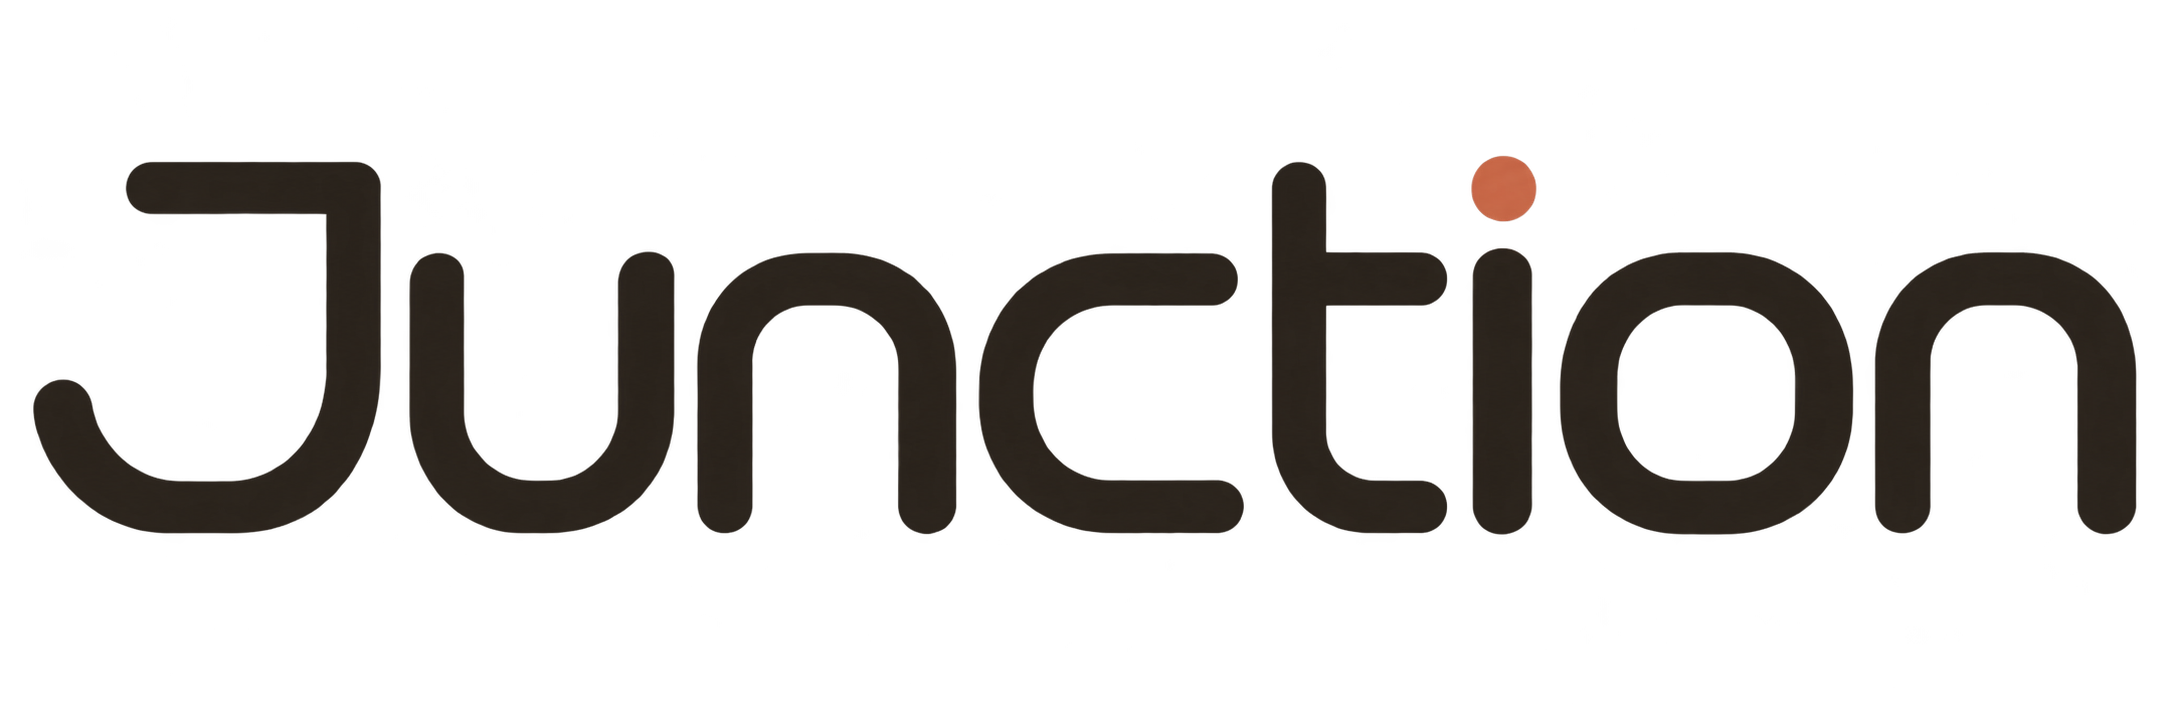
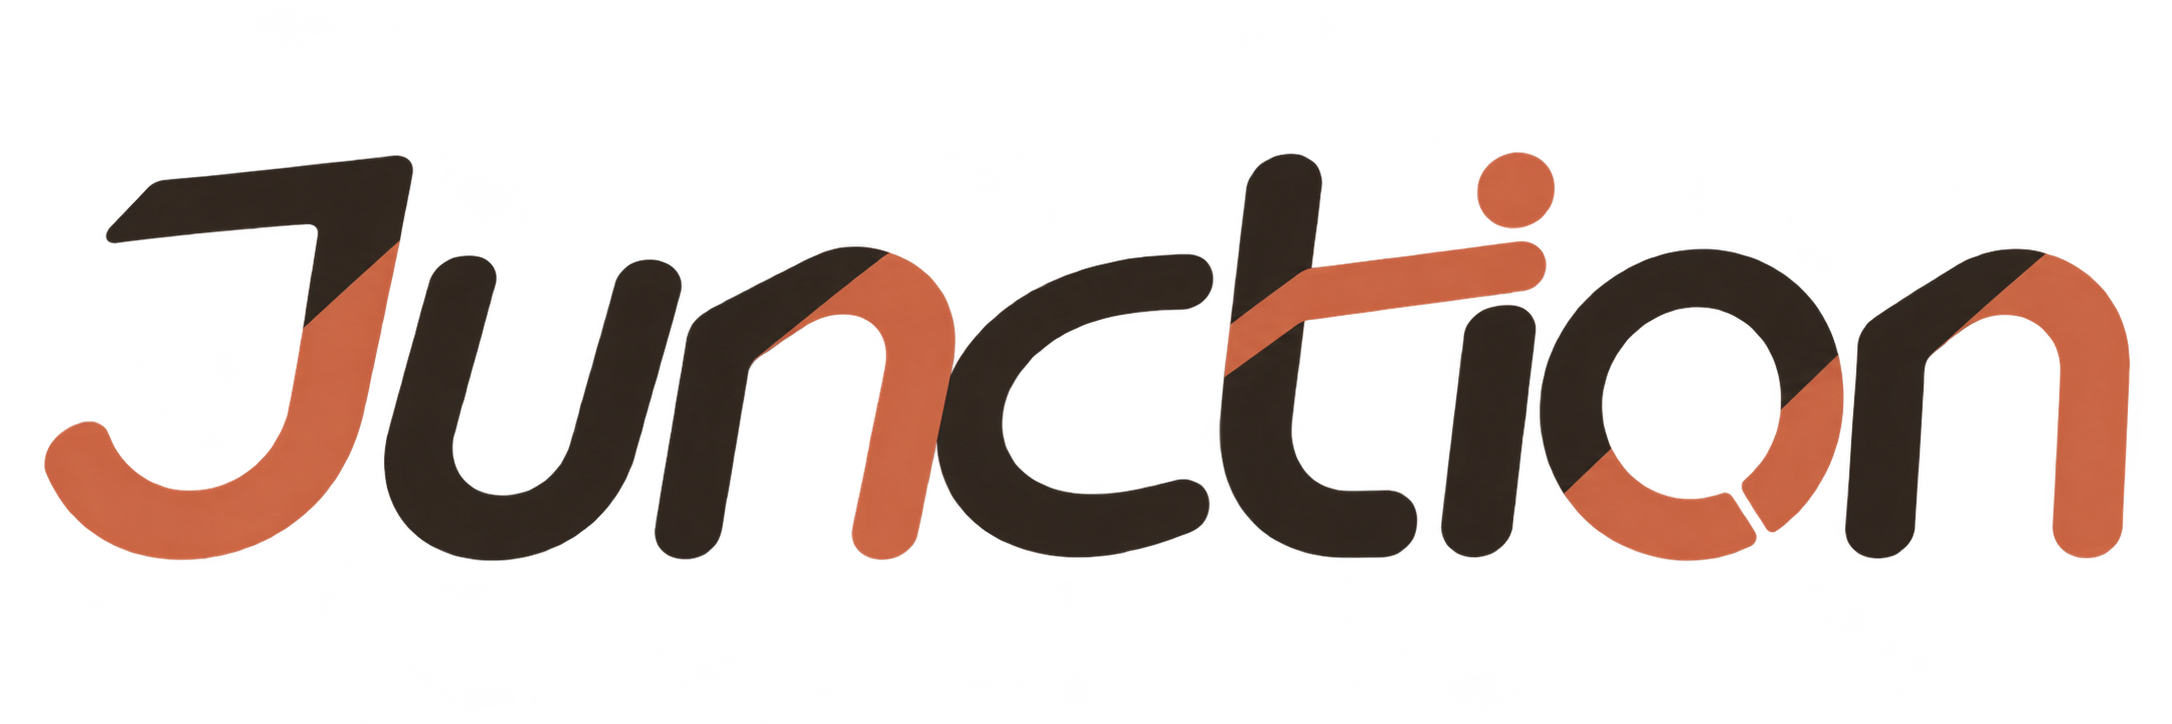
Refine Junction wordmark and recover local sessions on resume

Changed region(s): [[0.0, 0.2127, 0.9871, 0.7901], [0.7712, 0.3343, 0.8329, 0.395], [0.2776, 0.3343, 0.3085, 0.3646]]

diff --git a/apps/workbench/web/cloud/local-session.js b/apps/workbench/web/cloud/local-session.js
@@ -1,0 +1,45 @@
+// Recover a browser's existing local workspace through the normal cloud login
+// flow. This stores only a retry timestamp, never a login code or credential.
+const retryKey = device => 'switchyard-local-recovery:' + device;
+
+export function beginLocalRecovery(device) {
+  try {
+    const last = Number(sessionStorage.getItem(retryKey(device)));
+    const now = Date.now();
+    if (last && now >= last && now - last < 60000) return false;
+    sessionStorage.setItem(retryKey(device), String(now));
+    return true;
+  } catch { return false; } // Retain the manual retry when storage is restricted.
+}
+
+export function clearLocalRecovery(device) {
+  try { sessionStorage.removeItem(retryKey(device)); } catch {}
+}
+
+// A desktop may resume without a network-change event. Check immediately on
+// return instead of waiting for a stale terminal socket or the next poll.
+export function watchLocalSession(device, onExpired) {
+  let pending = false, navigating = false, stopped = false;
+  async function check() {
+    if (stopped || pending || navigating || document.hidden) return;
+    pending = true;
+    try {
+      const response = await fetch('/local/status', { signal: AbortSignal.timeout(3000) });
+      if (stopped) return;
+      if (response.status === 401) { navigating = true; onExpired(); }
+      else if (response.ok) clearLocalRecovery(device);
+    } catch { /* A network outage or node restart does not invalidate a login. */ }
+    finally { pending = false; }
+  }
+  const events = ['pageshow', 'focus', 'online'];
+  for (const event of events) window.addEventListener(event, check);
+  document.addEventListener('visibilitychange', check);
+  const timer = setInterval(check, 30000);
+  void check();
+  return () => {
+    stopped = true;
+    clearInterval(timer);
+    for (const event of events) window.removeEventListener(event, check);
+    document.removeEventListener('visibilitychange', check);
+  };
+}

diff --git a/apps/workbench/web/cloud/local-entry.js b/apps/workbench/web/cloud/local-entry.js
@@ -1,4 +1,5 @@
 import { beginLocalConfirmation, confirmLocalDevice, validTask } from './device-routing.js';
+import { beginLocalRecovery, clearLocalRecovery } from './local-session.js';
 const meta = name => document.querySelector(`meta[name="${name}"]`).content;
 const mode = meta('local-entry-mode'), device = meta('switchyard-device-id');
 const cloudOrigin = meta('switchyard-cloud-origin');
@@ -8,7 +9,9 @@ const task = fragment.get('task') || new URLSearchParams(location.search).get('t
 if (location.hash) history.replaceState(null, '', location.pathname + location.search);
 const retry = document.getElementById('entry-retry');
 if (validTask(task)) {
-  retry.href += '?task=' + encodeURIComponent(task);
+  const url = new URL(retry.href);
+  url.searchParams.set('task', task);
+  retry.href = url.href;
 }
 const destination = '/' + (validTask(task) ? '?task=' + encodeURIComponent(task) : '');
 async function request(url, body) {
@@ -36,8 +39,13 @@ try {
     else location.replace(Theme.url(destination));
   } else {
     const response = await fetch('/local/status', { signal: AbortSignal.timeout(3000) });
-    if (response.ok) location.replace(Theme.url(destination));
-    else {
+    if (response.ok) {
+      clearLocalRecovery(device);
+      location.replace(Theme.url(destination));
+    } else if (response.status === 401 && beginLocalRecovery(device)) {
+      document.getElementById('entry-status').textContent = '正在确认账号并恢复连接…';
+      location.replace(Theme.url(retry.href));
+    } else {
       document.getElementById('entry-status').textContent = '从云端确认账号后，即可在本机继续工作。';
       retry.hidden = false; retry.textContent = '重新连接';
       window.PageLoad.ready();

diff --git a/apps/workbench/web/js/features/cloud-workspace.js b/apps/workbench/web/js/features/cloud-workspace.js
@@ -2,6 +2,7 @@ import { $, nodeBase } from "../core/dom.js";
 import { state } from "../core/state.js";
 import { duringAutoFollow } from "./mobile.js";
 import { devicePath } from "../../cloud/device-routing.js";
+import { watchLocalSession } from "../../cloud/local-session.js";
 
 let switcher, panel, list, advanced, hostList, hooks;
 let devices = [], loading = false, failure = "", expired = false, pending;
@@ -204,16 +205,11 @@ export function initCloudWorkspace(callbacks) {
   }, true);
   repaintCloudWorkspace(); refreshDevices(true);
   setInterval(() => { if (!document.hidden && !switcher.open) refreshDevices(); }, 15000);
-  if (direct) setInterval(async () => {
-    if (document.hidden) return;
-    try {
-      const response = await fetch('/local/status');
-      if (response.status === 401) {
-        const task = validTask(state.selectedTaskId) ? '?task=' + encodeURIComponent(state.selectedTaskId) : '';
-        location.replace(Theme.url('/local/open' + task));
-      }
-    } catch { /* The terminal already handles a temporary node restart. */ }
-  }, 30000);
+  if (direct) watchLocalSession(switcher.dataset.deviceId, () => {
+    remember();
+    const task = validTask(state.selectedTaskId) ? '?task=' + encodeURIComponent(state.selectedTaskId) : '';
+    location.replace(Theme.url('/local/open' + task));
+  });
 }
 
 // Only re-attach a still-live task belonging to this user, node and host. Never

diff --git a/apps/workbench/web/css/app.css b/apps/workbench/web/css/app.css
@@ -298,9 +298,9 @@ body { margin: 0; font: 13px/1.55 -apple-system, "SF Pro Text", system-ui, "Ping
   input, textarea, [contenteditable="true"] { -webkit-user-select: text; user-select: text; -webkit-touch-callout: default; }
 }
 header { padding: 12px 18px; background: var(--surface); border-bottom: 1px solid var(--border); font-weight: 600; flex: none; display: flex; align-items: center; gap: 10px; }
-.brand { display: inline-flex; align-items: center; flex: none; height: 28px; text-decoration: none; }
+.brand { display: inline-flex; align-items: center; flex: none; height: 30px; text-decoration: none; }
 /* Crop the transparent canvas padding while retaining the generated artwork. */
-.brand-logo { display: block; width: 150px; height: 27px; object-fit: cover; object-position: center 48%; }
+.brand-logo { display: block; width: 150px; height: 30px; object-fit: cover; object-position: center; }
 .brand-logo-light { display: none; }
 :root[data-theme="light"] .brand-logo-dark { display: none; }
 :root[data-theme="light"] .brand-logo-light { display: block; }
